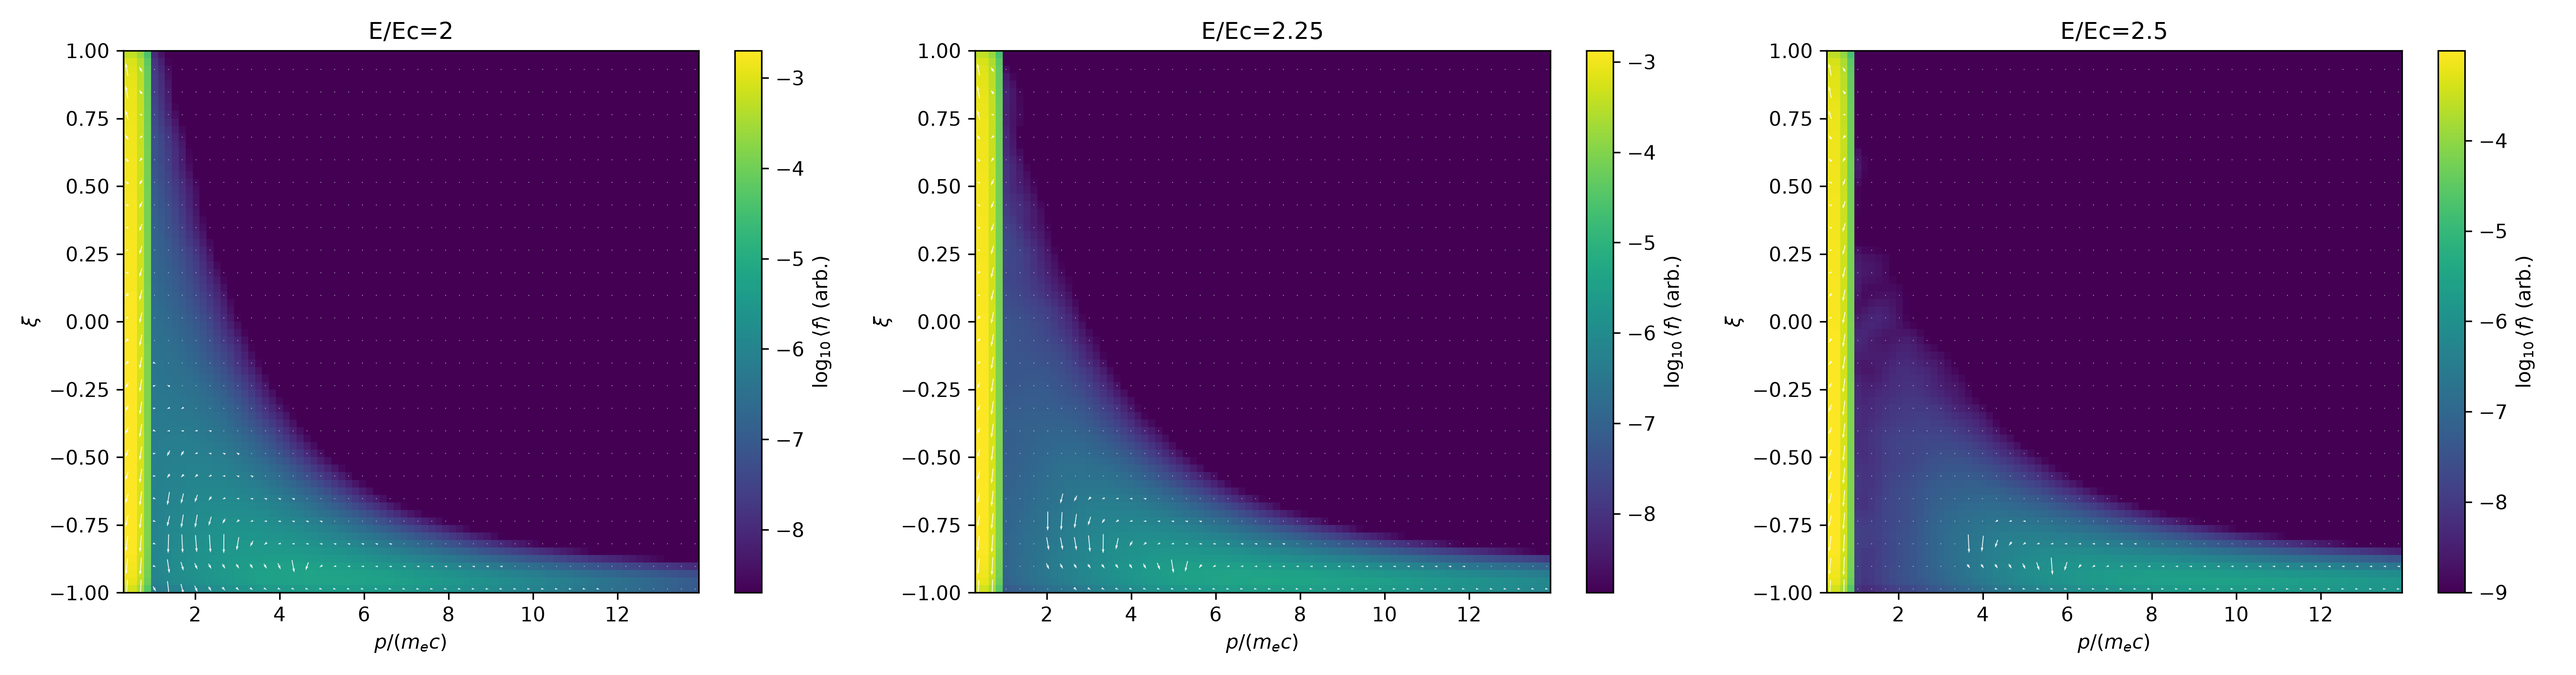
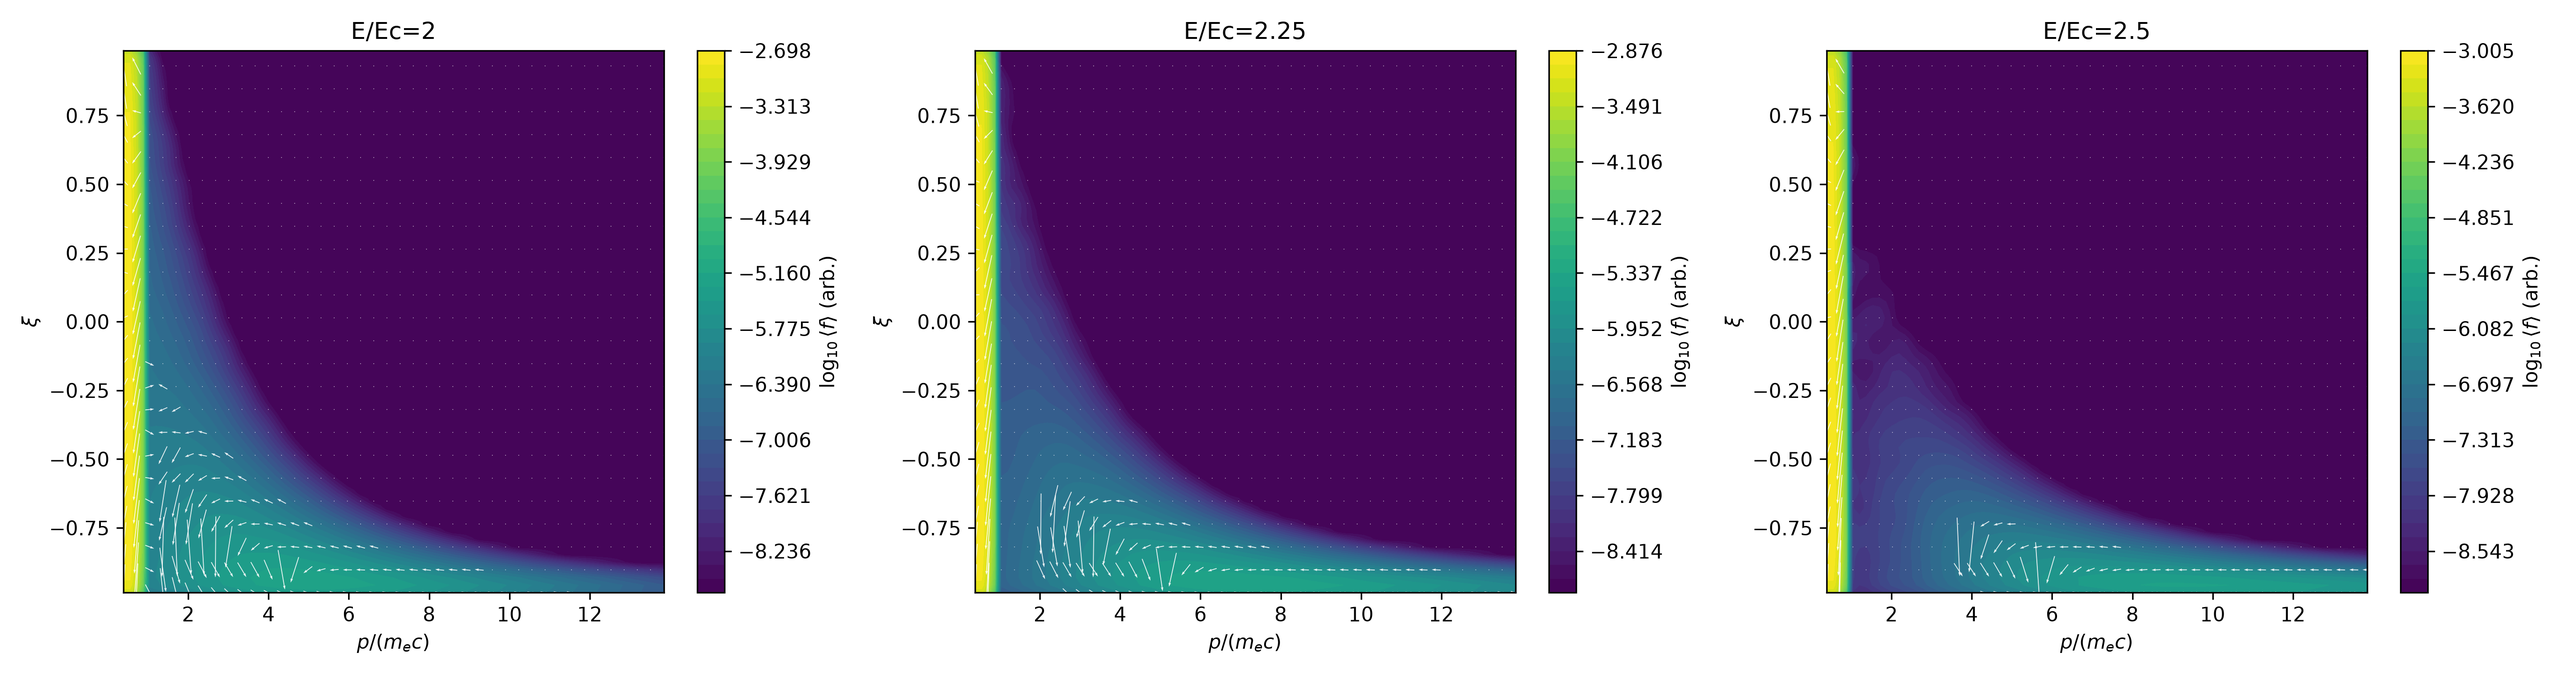
fix(benchmarks): improve phase-space flow plots
Use filled contours and longer white quiver arrows in the high-fidelity record.

diff --git a/benchmarks/test_runaway_vortex.py b/benchmarks/test_runaway_vortex.py
@@ -932,7 +932,9 @@ def _write_particle_vortex_results(results, output_dir: Path):
             gxi = gxi[mask_p]
             positive = ff[ff > 0.0]
             floor = max(np.max(ff) * 1.0e-6, np.min(positive) if positive.size else 1.0e-30)
-            image = ax.pcolormesh(pp, xi, np.log10(np.maximum(ff.T, floor)), shading="auto")
+            log_density = np.log10(np.maximum(ff.T, floor))
+            levels = np.linspace(np.nanmin(log_density), np.nanmax(log_density), 40)
+            image = ax.contourf(pp, xi, log_density, levels=levels, cmap="viridis")
             speed = np.sqrt(gp * gp + gxi * gxi)
             u = gp / np.maximum(speed, 1.0e-300)
             v = gxi / np.maximum(speed, 1.0e-300)
@@ -956,7 +958,7 @@ def _write_particle_vortex_results(results, output_dir: Path):
                 linewidth=0.25,
                 angles="xy",
                 scale_units="xy",
-                scale=14.0,
+                scale=4.5,
                 pivot="mid",
             )
             ax.set_title(f"E/Ec={result['e_over_ec']:g}")
